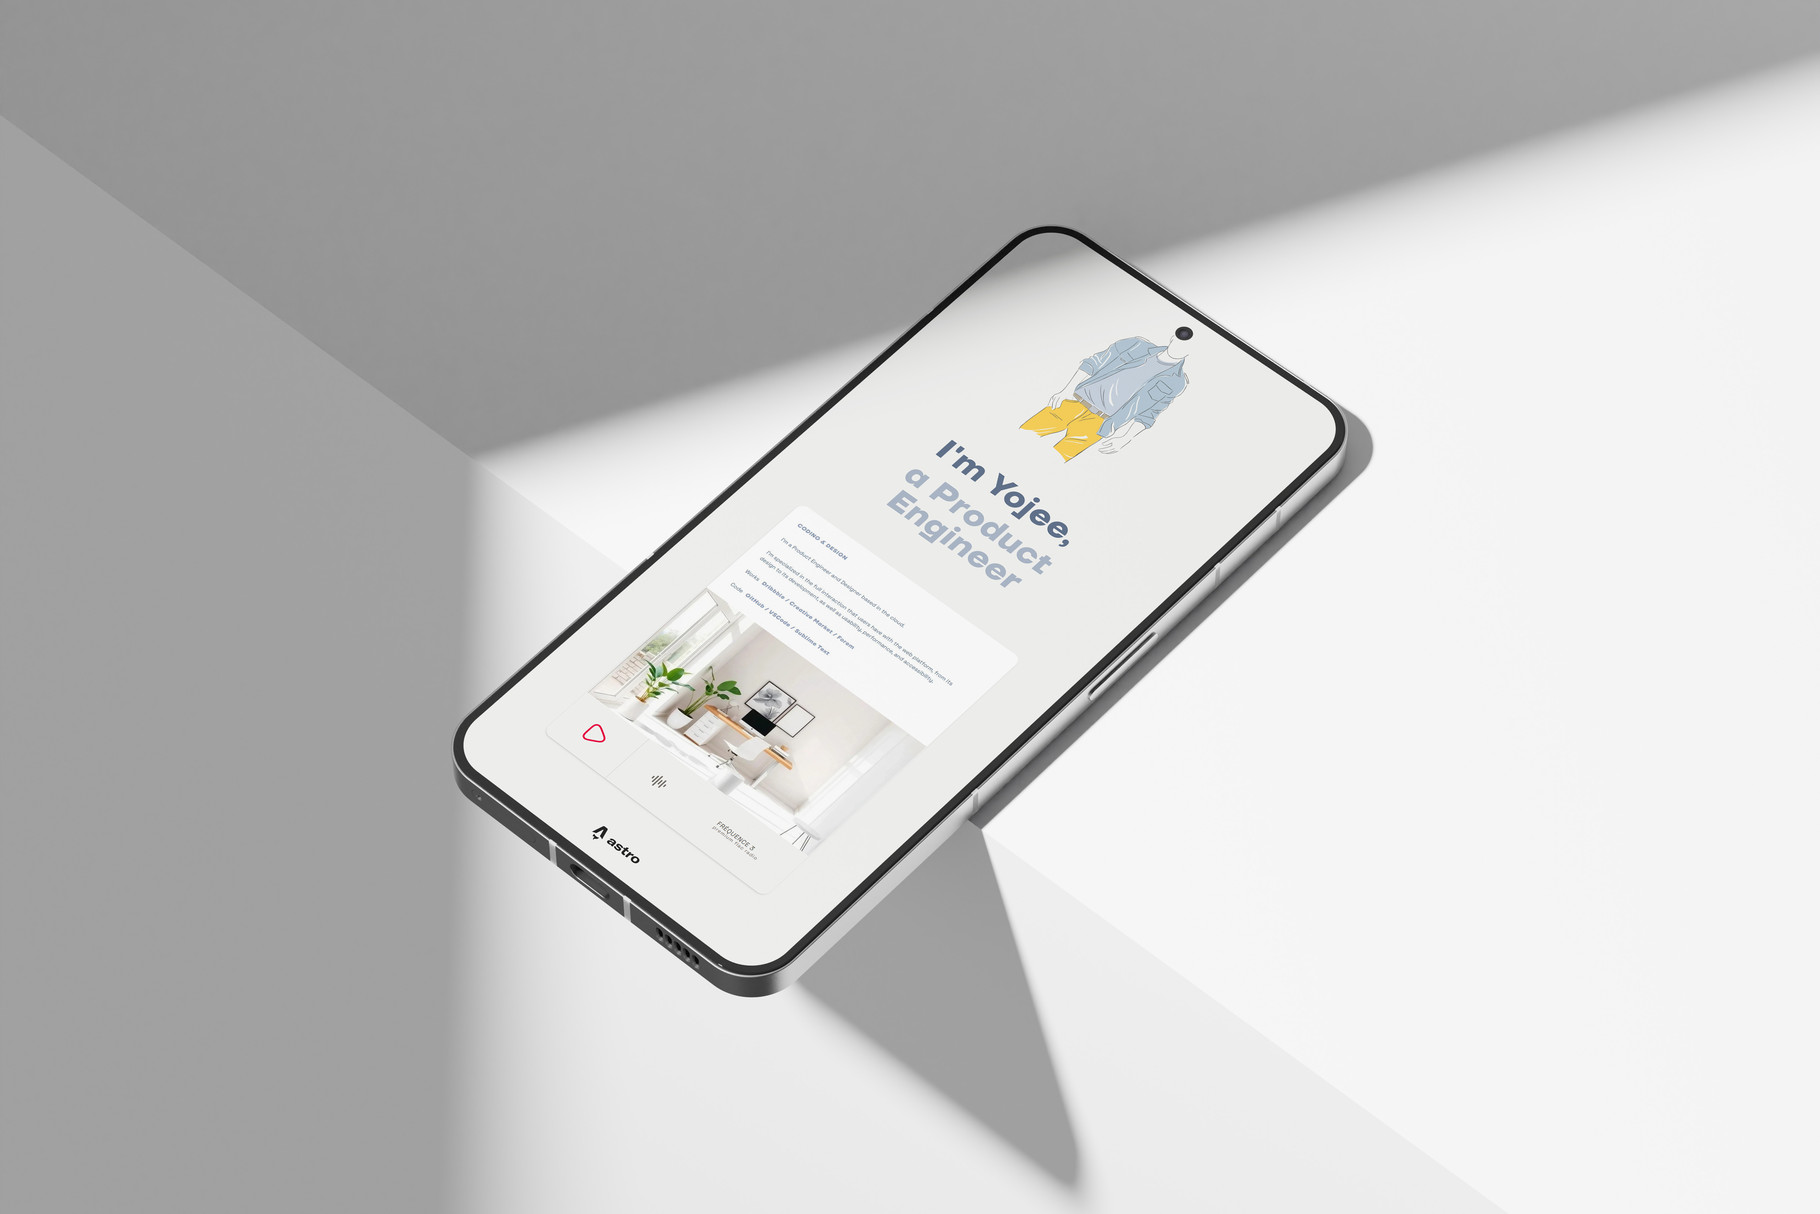
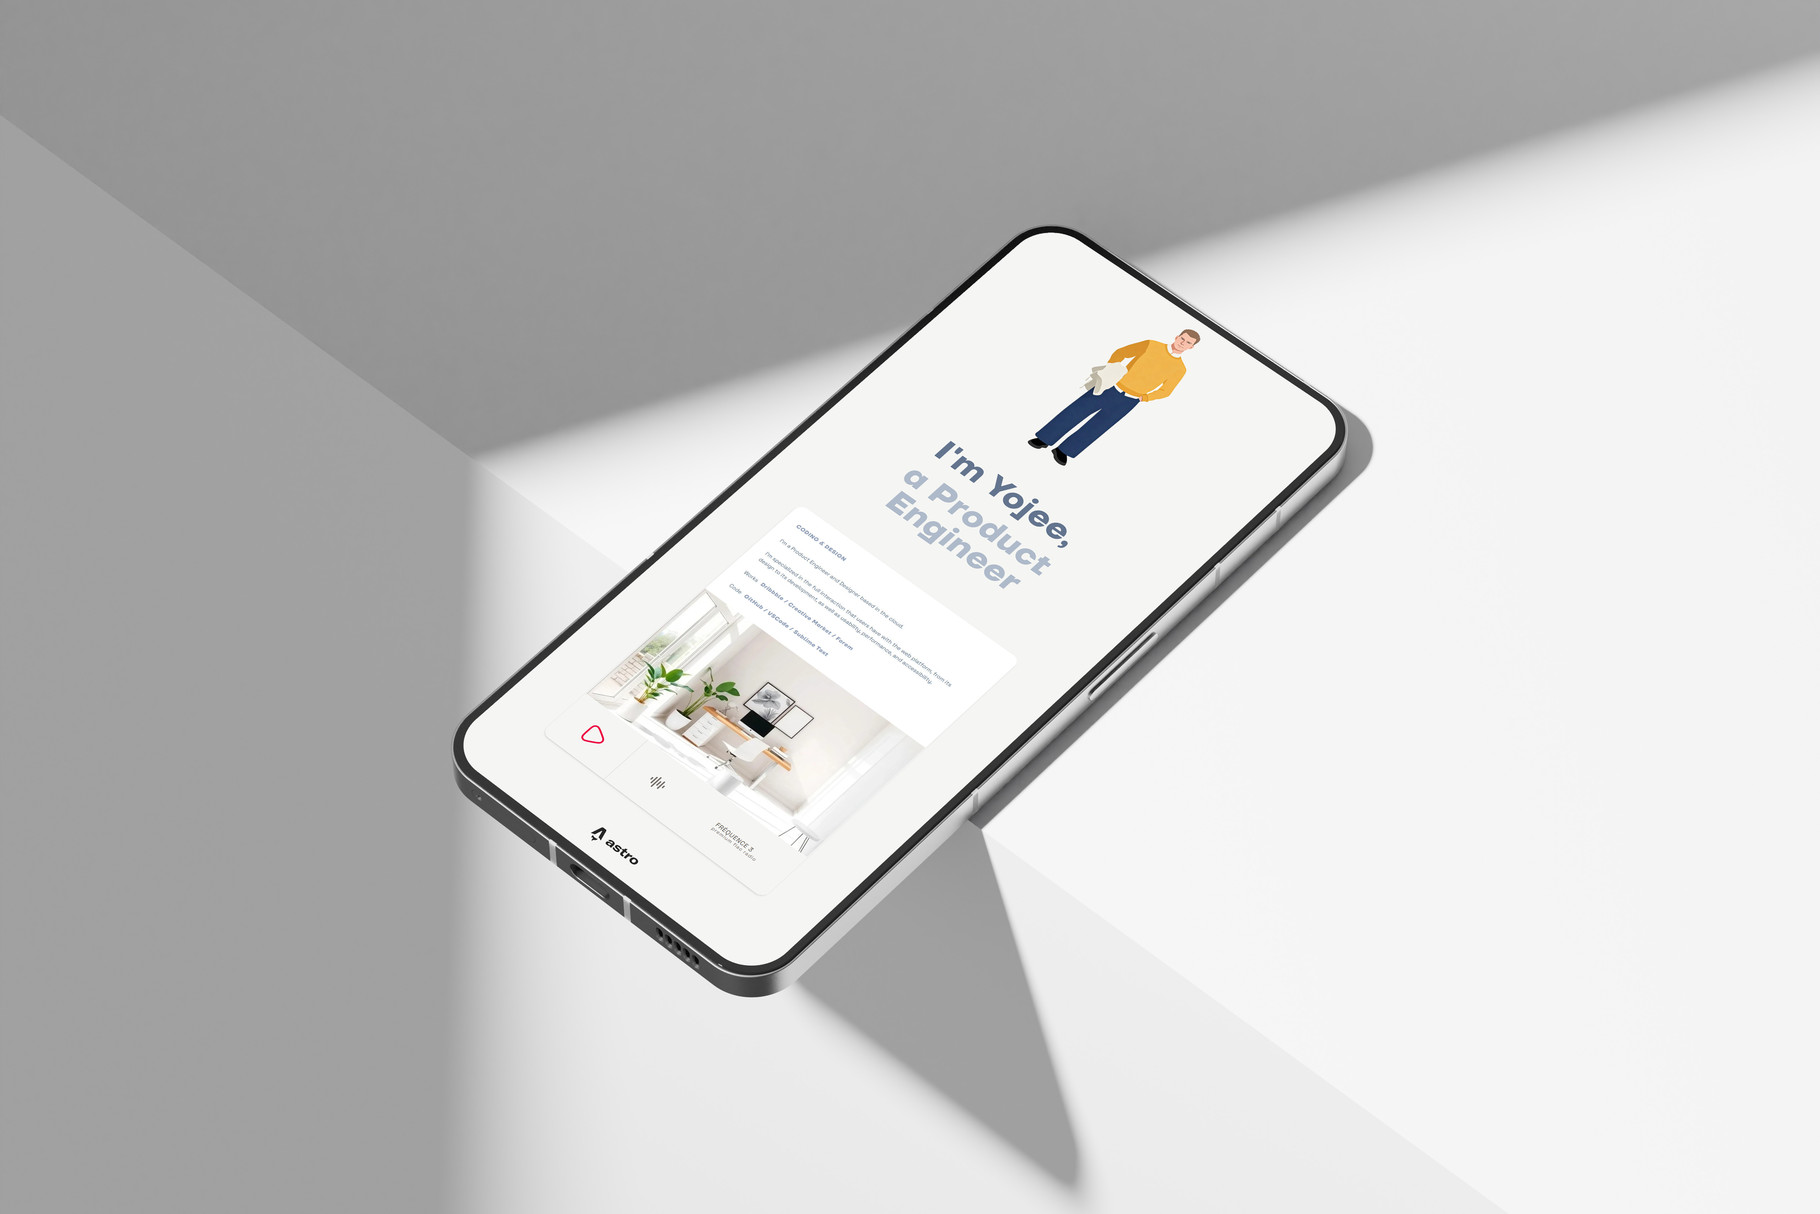
new

diff --git a/index.html b/index.html
@@ -34,7 +34,7 @@
     <div class="grid w-full min-h-dvh place-content-evenly">
       <div class="grid place-self-center max-sm:p-4">
         <a href="https://github.com/yojeero" target="_blank">
-          <img class="object-cover h-[48vh]" src="./images/top.svg" alt="" />
+          <img class="object-cover h-[48vh]" src="./images/ava.png" alt="" />
         </a>
       </div>
 
